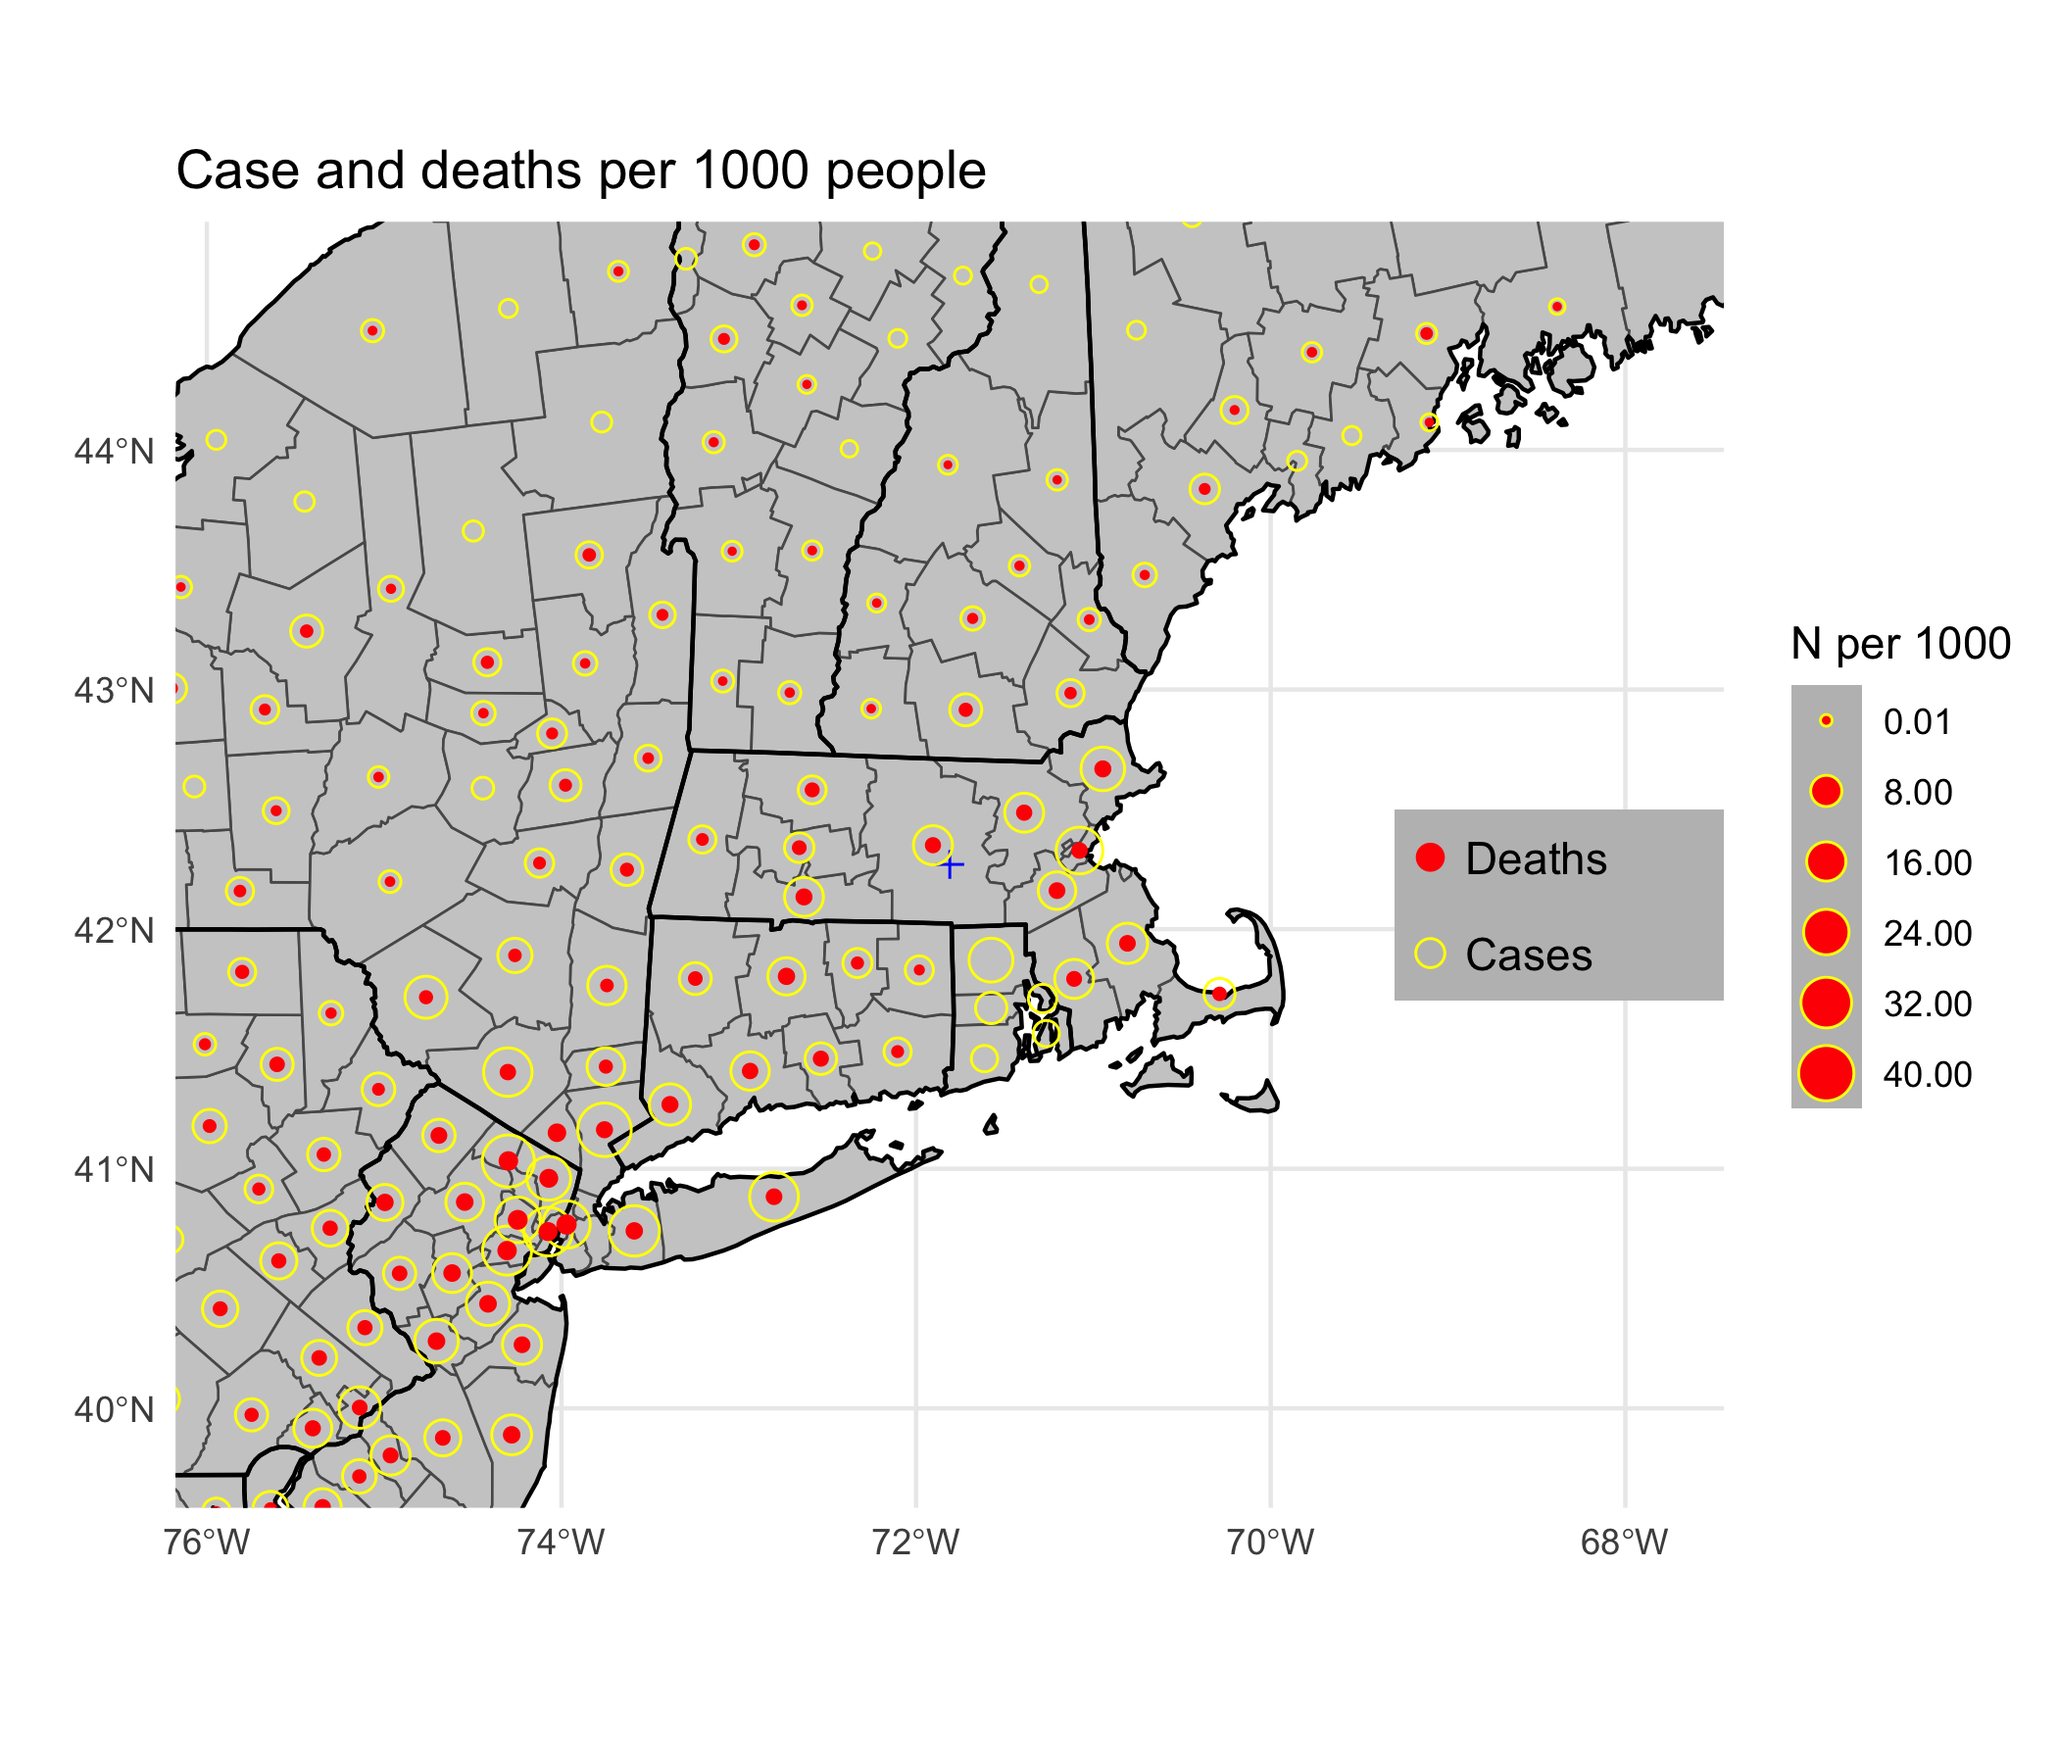
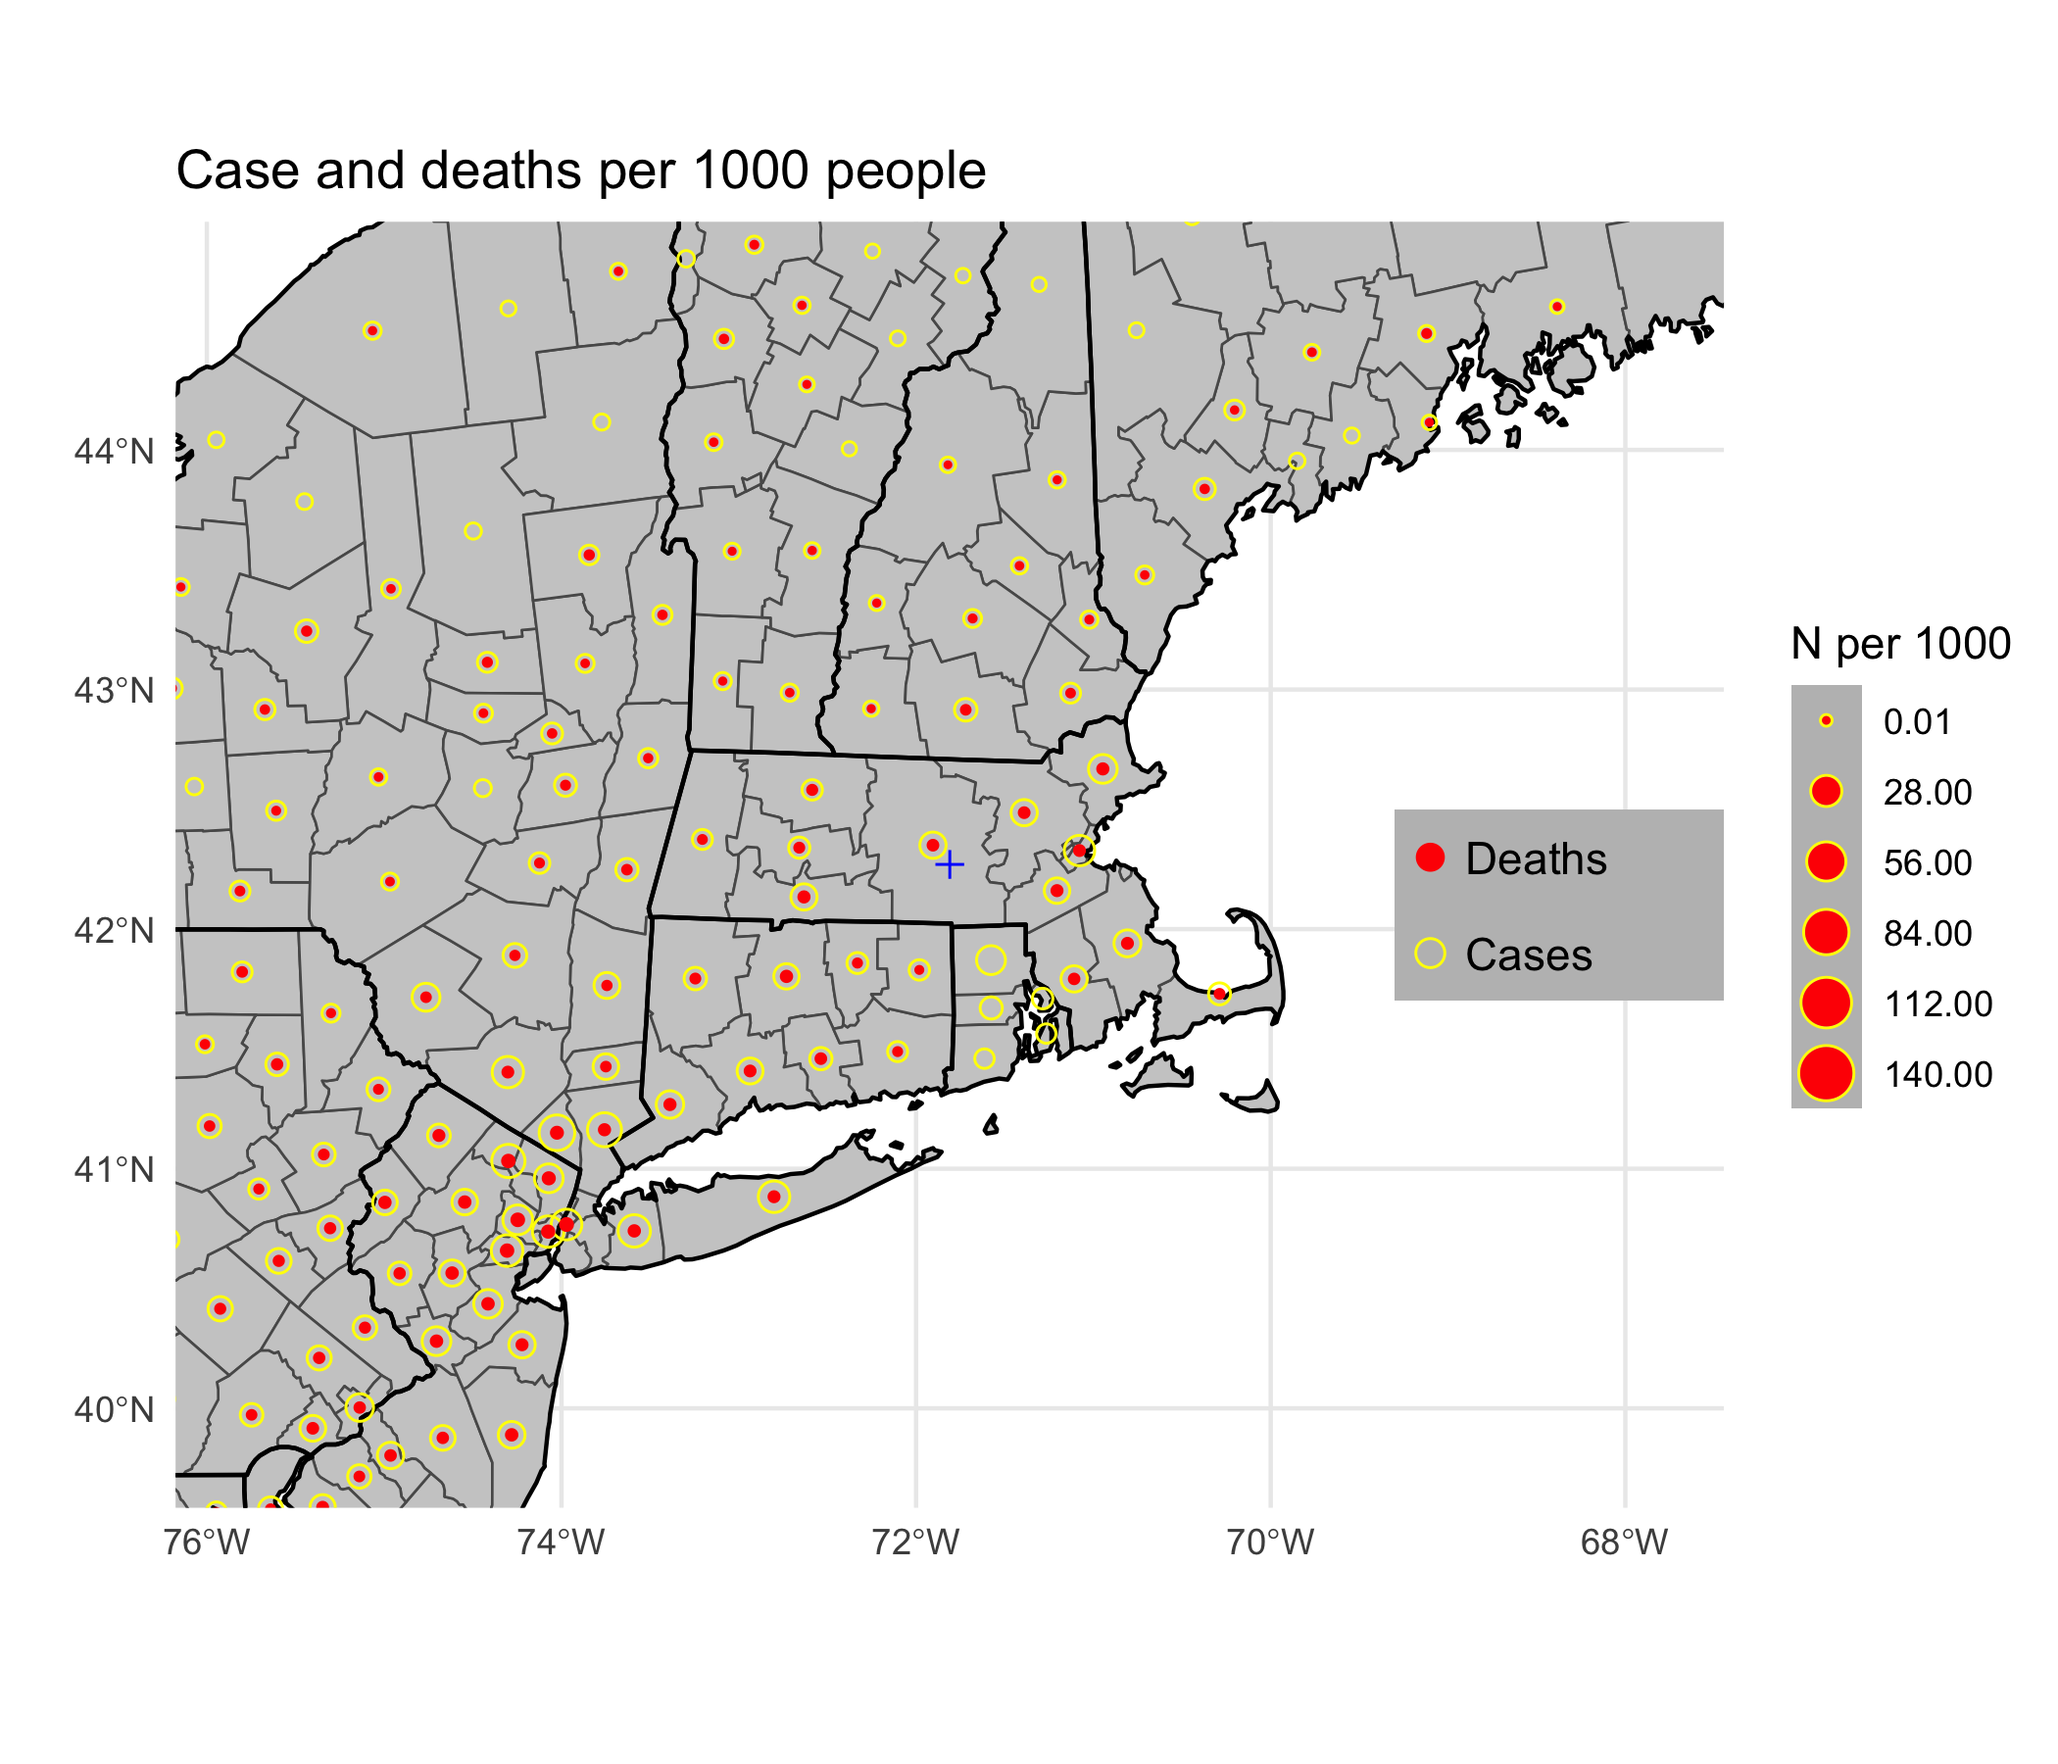
Fixed over plotting on case map

diff --git a/README.md b/README.md
@@ -12,7 +12,7 @@ around a focal point, in this case Worcester, MA, the home of Clark
 University. It also tries to show county-level detail available in state
 datasets.
 
-**Last update**: 2020-07-28 19:59:12
+**Last update**: 2020-07-28 20:14:21
 <img src="vignettes/figures/caserate_map.png" width="95%" style="display: block; margin: auto;" /><img src="vignettes/figures/case_map.png" width="95%" style="display: block; margin: auto;" /><img src="vignettes/figures/statecases_daily.png" width="95%" style="display: block; margin: auto;" /><img src="vignettes/figures/statecases_cumulative.png" width="95%" style="display: block; margin: auto;" /><img src="vignettes/figures/statedeaths_daily.png" width="95%" style="display: block; margin: auto;" /><img src="vignettes/figures/statedeaths_cumulative.png" width="95%" style="display: block; margin: auto;" />
 
 ## Notes
